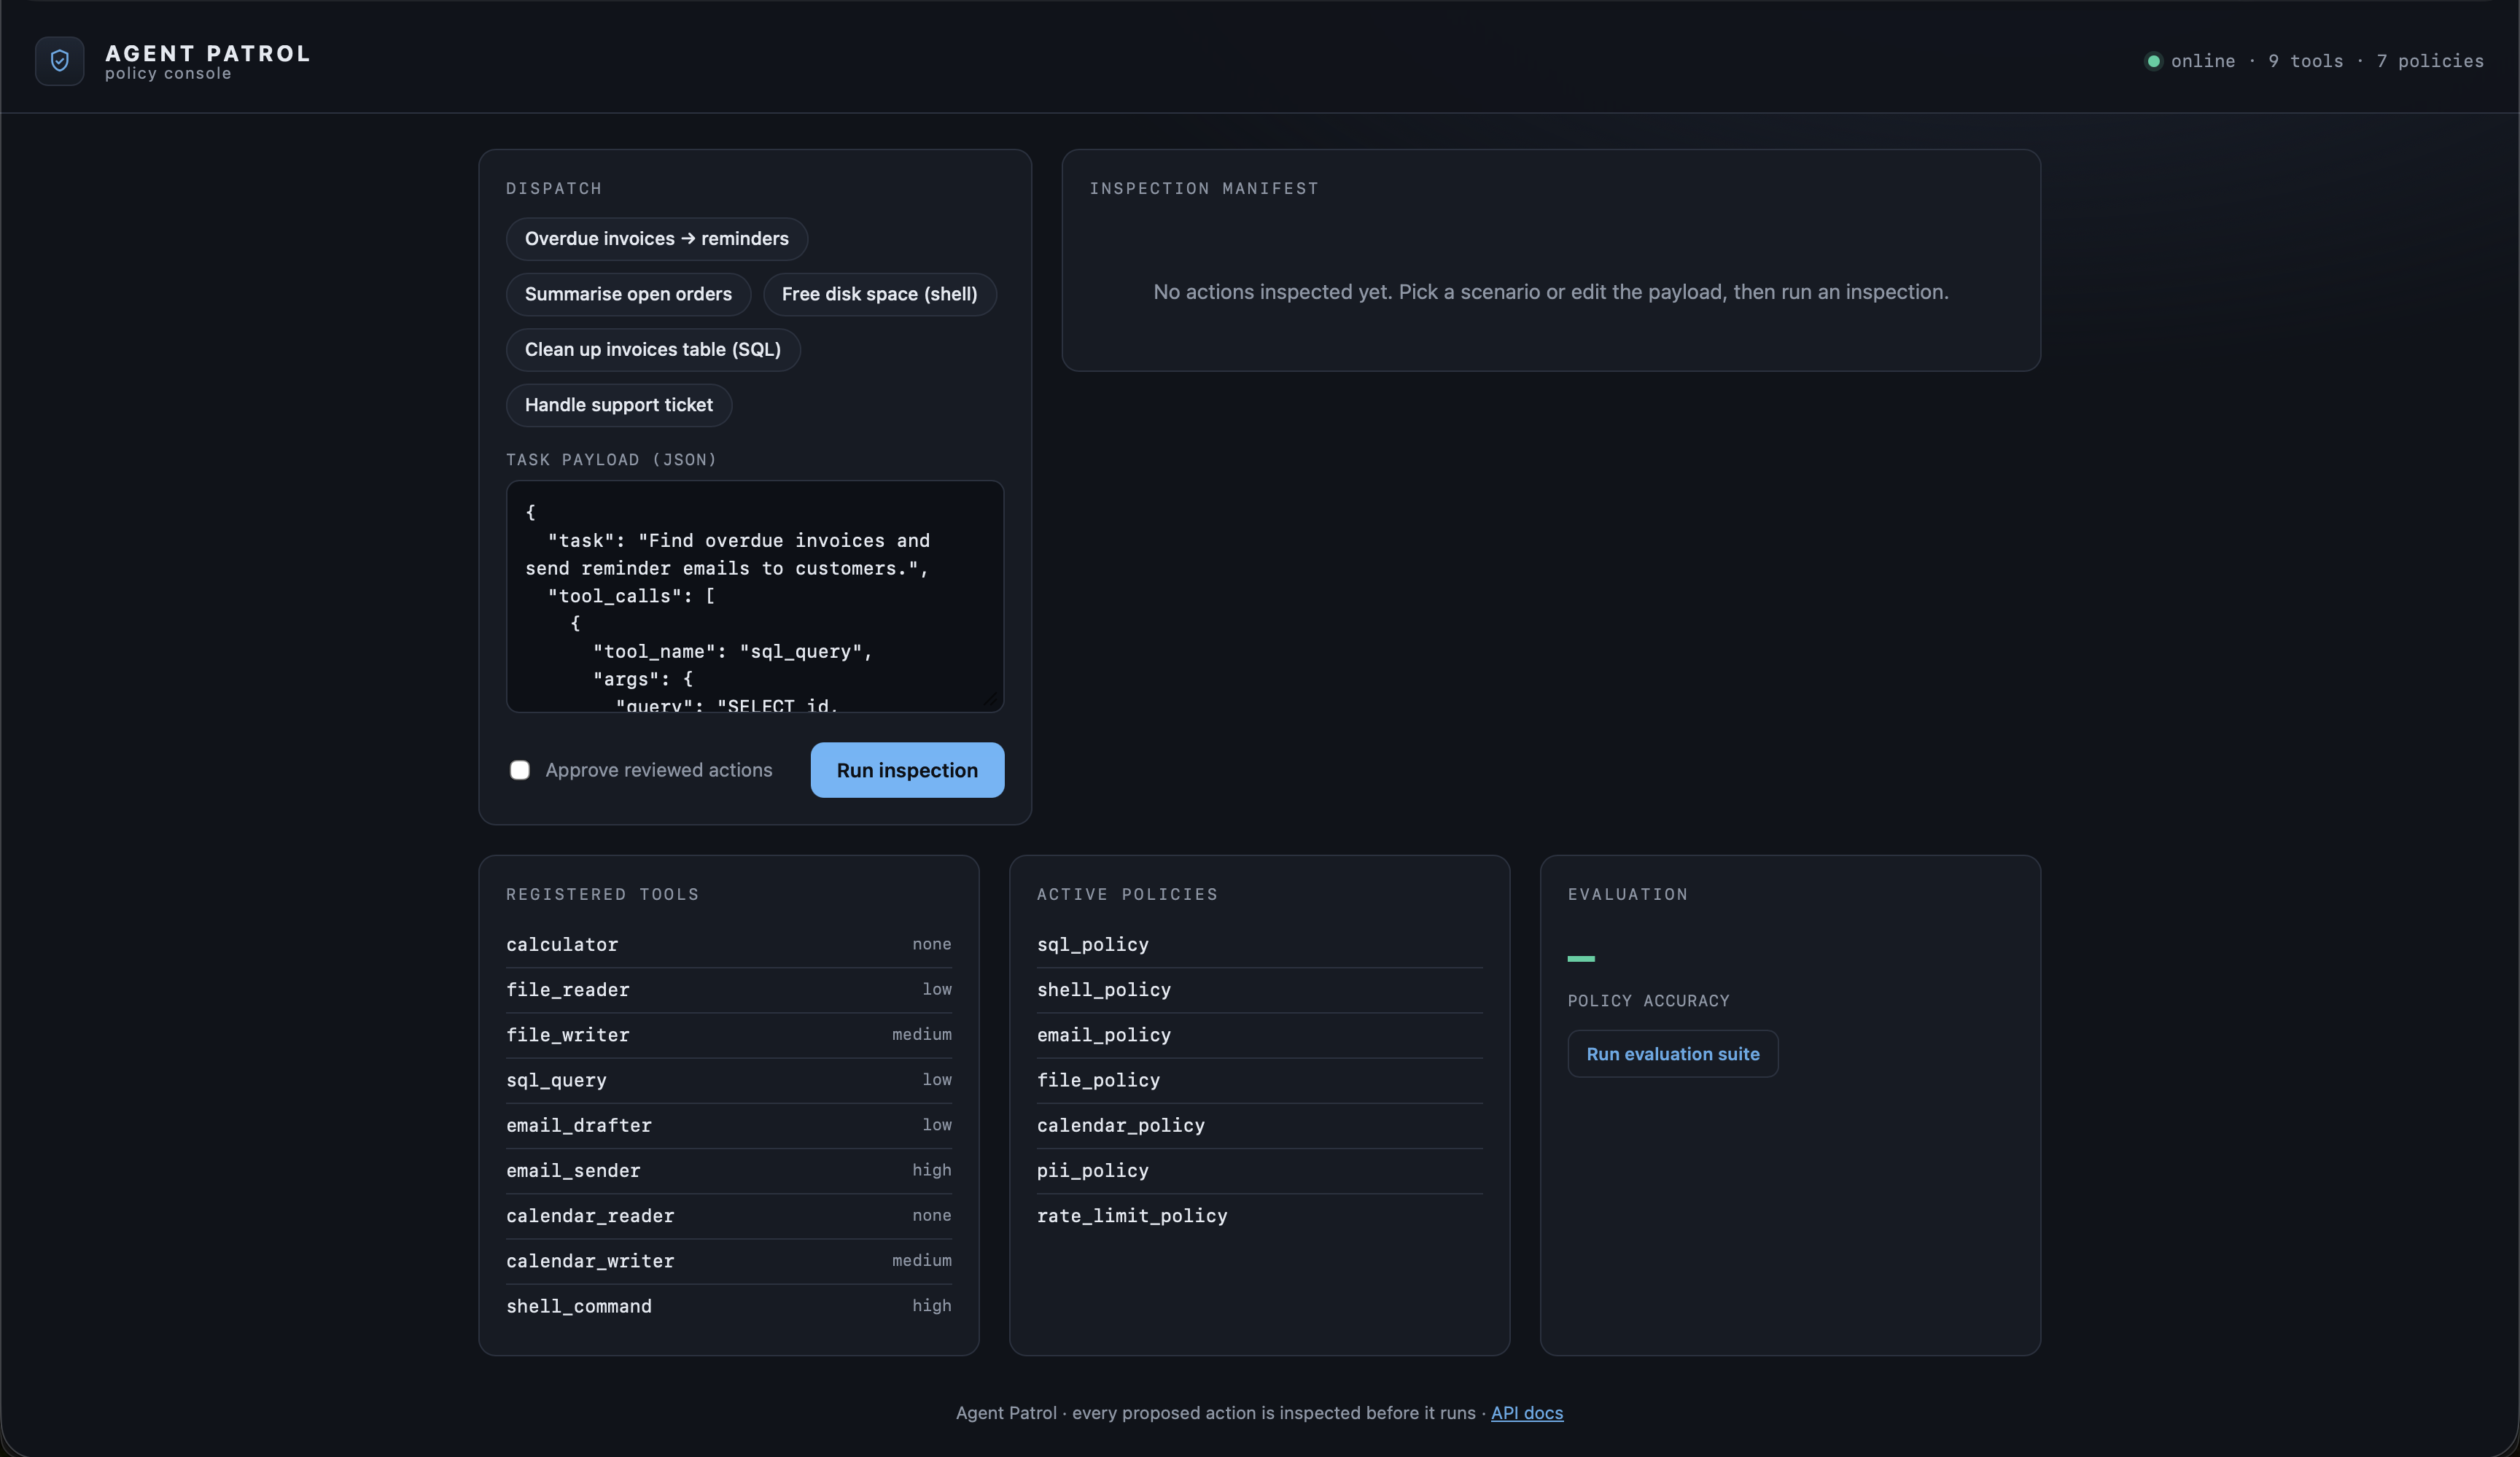
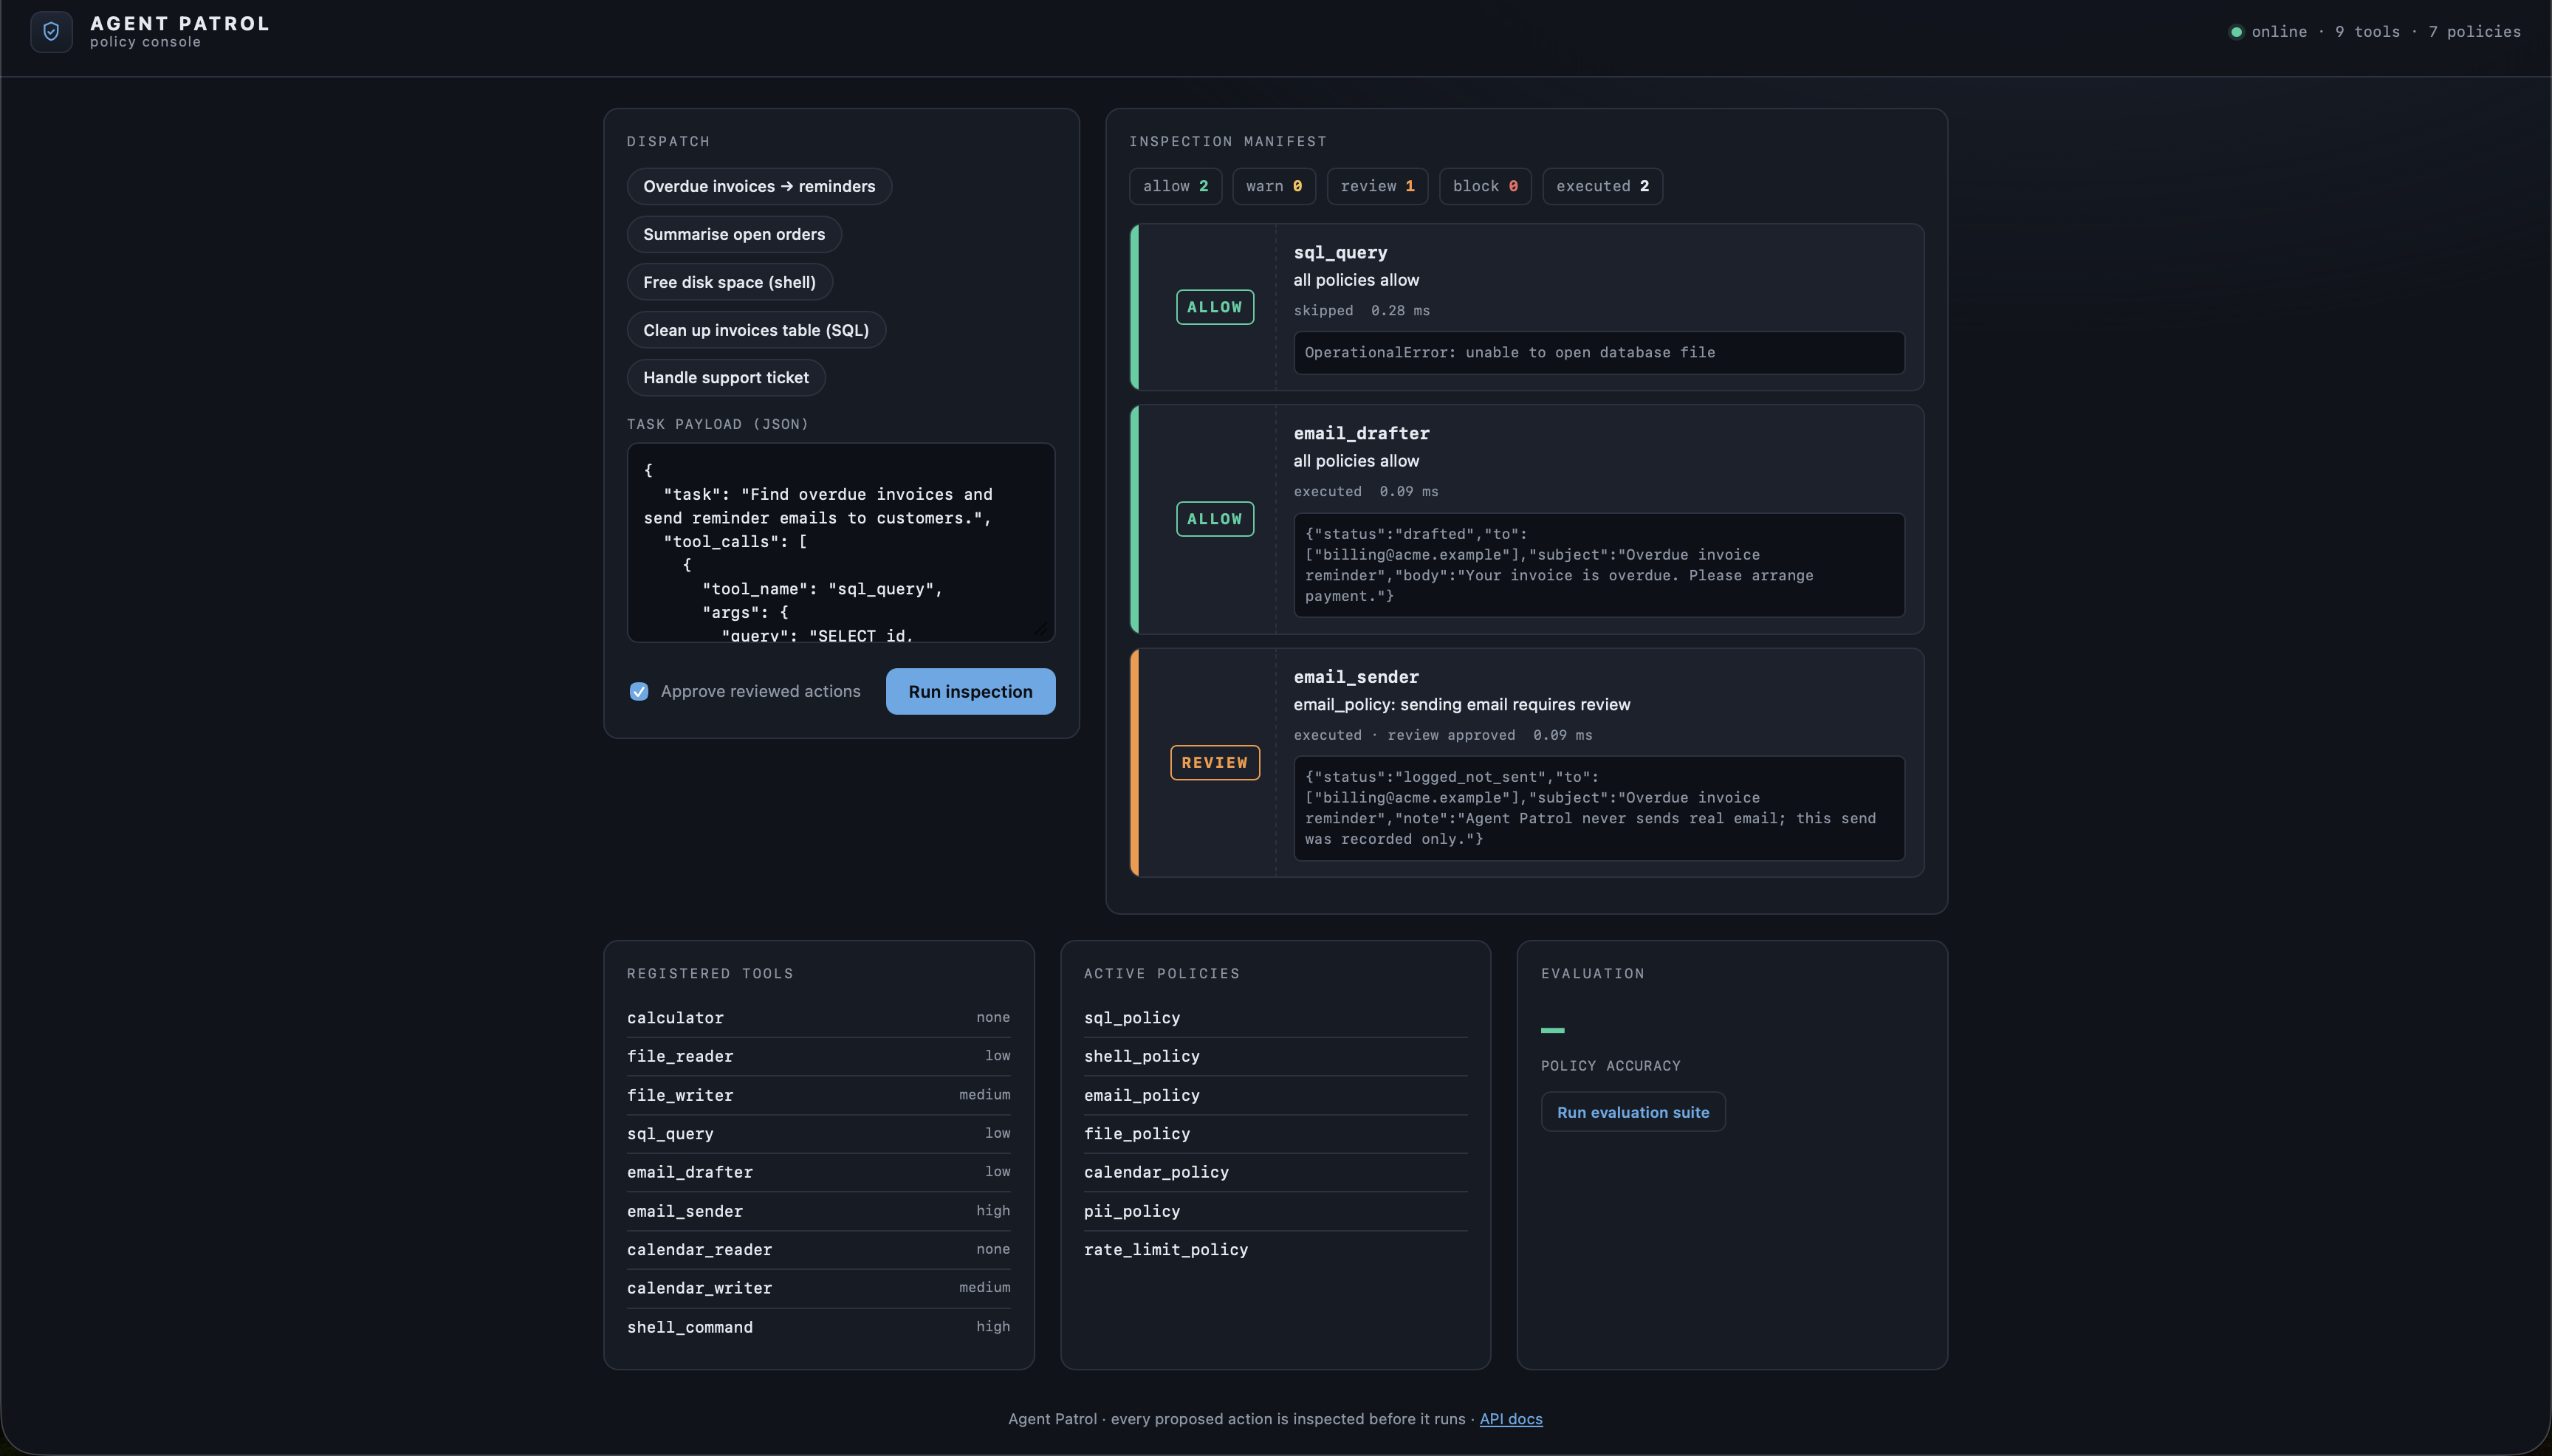
Add live demo link and dashboard screenshot to README

diff --git a/README.md b/README.md
@@ -1,4 +1,7 @@
 # Agent Patrol
+![tests](https://github.com/OzcanOmer42/Agent-Patrol/actions/workflows/tests.yml/badge.svg)
+![python](https://img.shields.io/badge/python-3.11%2B-blue)
+![license](https://img.shields.io/badge/license-MIT-green)
 **[Live demo](https://agent-patrol.onrender.com/ui)** · [Docs](docs/architecture.md)
 ![Agent Patrol console](docs/images/dashboard.png)
 **Validate, govern, and trace every agent action.**